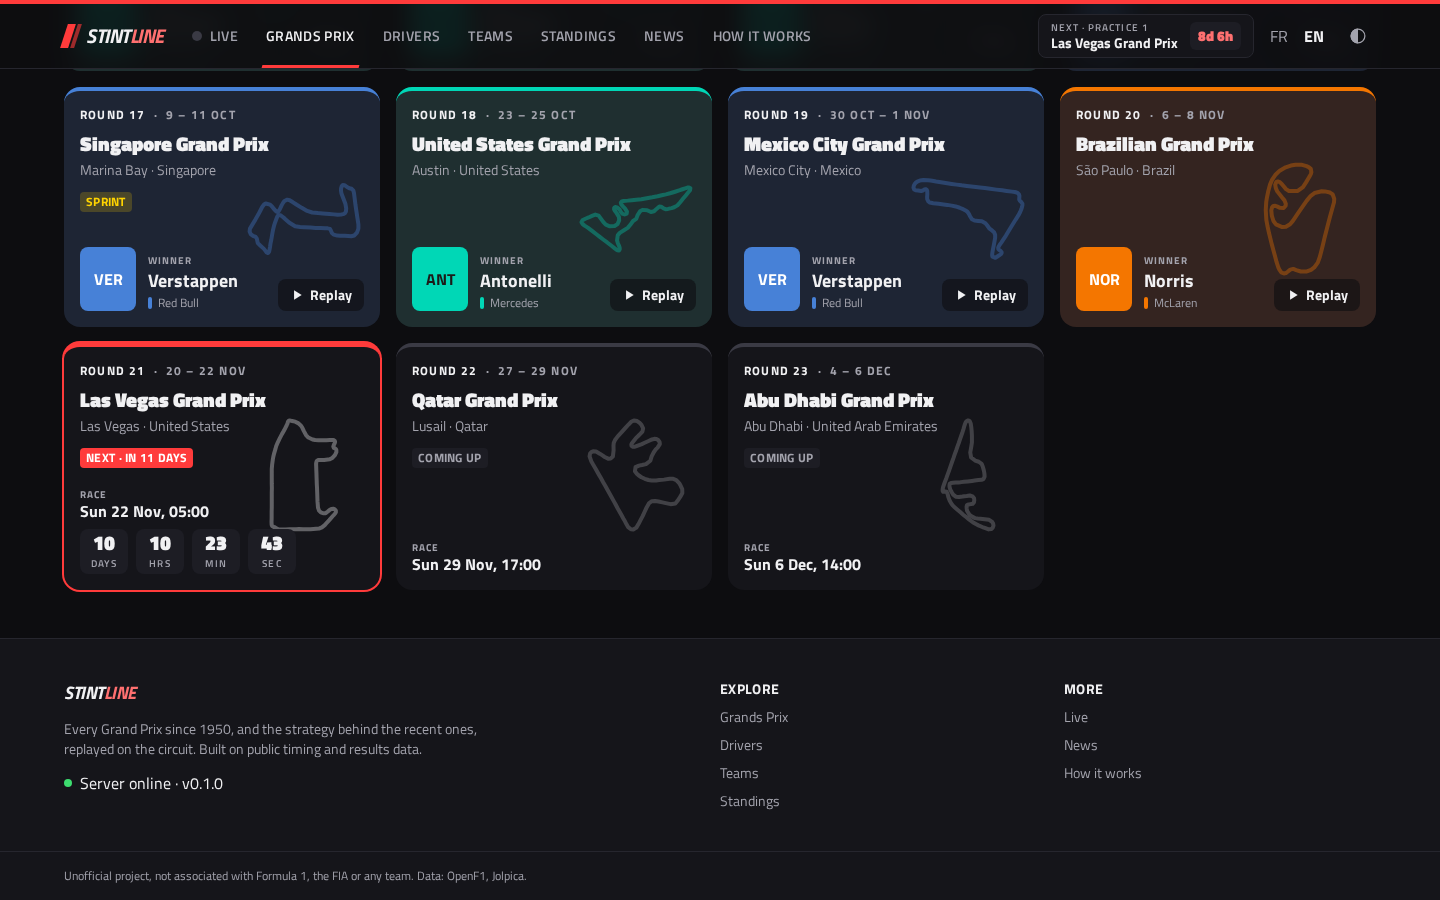
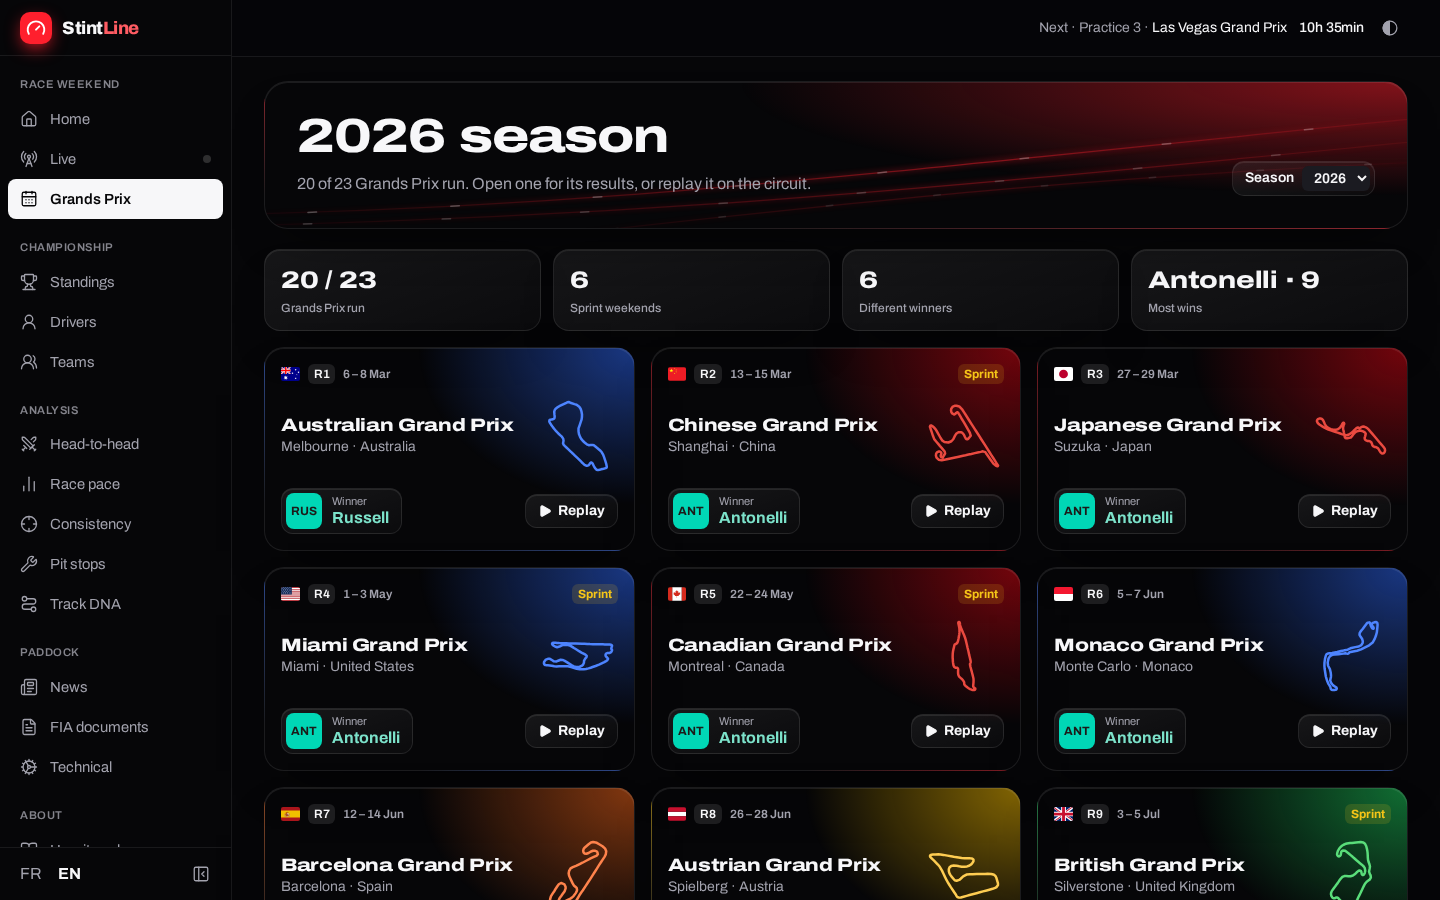
docs: record the polish, new screenshots and measured quality

diff --git a/apps/web/CLAUDE.md b/apps/web/CLAUDE.md
@@ -4,8 +4,8 @@ Read the root `CLAUDE.md` first. This file only adds frontend-specific rules.
 
 ## Layout
 - `src/app/`: router, layout shell (icon sidebar grouped by intent with FR/EN, top bar with the next session and the theme; on race pages the race picker and the Circuit / Tyres / Results tabs sit in the top bar), providers.
-- `src/features/<feature>/`: `components/`, `api.ts` (TanStack Query hooks), pure helpers, `*.test.ts(x)`. Features: `race` (circuit map, replay clock and maths, photo driver picker, pit-stop, undercut and what-if strategy panels; plans encoded in `strategy.ts`), `tyres` (wear per compound, strategies, wear chart), `model-about`, `session-picker` (race picker dialog over the timed seasons), `home` (home page, not found), `hub` (shared query hooks and current season), `calendar`, `event` (Grand Prix hero, results), `analysis` (race facts, lap charts, sectors; pure maths in `laps.ts`), `drivers`, `teams`, `standings` (tables and title-fight chart), `health`, `live` (status query, WebSocket hook with reconnection, TV-delay buffer in `buffer.ts`, live page with `TimingTower` (mini-sectors), `FlagTimeline`, `GapRing` (ring maths in `ring.ts`), `PitLanePanel` (team averages in `pitLane.ts`) and `WeatherStrip`), `forecast` (Open-Meteo forecasts: `useForecasts`, `ForecastBadge`, `WeekendForecast` panel, `ForecastCredit`, WMO codes in `weather.ts`), `news` (report and headline queries, `write.ts` turns report facts into an EN/FR article in sections, news page with a headline wire, source filters and a reader that names the drivers and teams of a headline, report pages with charts reused from `analysis` and `telemetry`), `insights` (analysis hub, ADR 0017: head-to-head, race pace, consistency, pit stops and track DNA pages; visx charts in `charts/` (split bar, gap strip, per-round gap bars, pace boxes, lap scatter, pit-loss bars), pure helpers in `duel.ts`, season and driver label helpers in `season.ts`, the "our engine" badge in `components/common.tsx`), `paddock` (FIA documents page: Grand Prix picker, category filter, search with snippets, `PdfViewer` drawing pages with pdf.js loaded on demand and retrying on 429, the ruling with its lap; `DecisionTable` and `PenaltyTags` reused by the Grand Prix page and the driver profile), `technical` (Upgrades heatmap with the parts on an original `CarDiagram` and the pace before/after, power-unit matrix against the allowance, incidents by kind and session and licence points), `championship` (title maths, ADR 0022: `useTitle`, `titleSummary` in `summary.ts`, `TitleFight` panel on the standings and `TitleSentence` on the home leader tile), `telemetry` (fastest-lap comparison: stacked distance charts with a shared pointer and a relief strip, lap drawn on the circuit, braking-zone table; "3D lap" view (ADR 0021): `webgl.ts` check before loading, `Lap3DPanel` controls and readout, `Lap3DScene` and `Car3D` the only modules importing `three` (lazy, excluded from coverage), track geometry and side-by-side spacing in `track3d.ts`, car shapes in `carShape.ts`, replay clock and gaps in `playback.ts`).
-- Routes (English at the root, French under `/fr` with the same paths, ADR 0025): `/` (home), `/calendar/:year?`, `/events/:eventId` (`?session=R|SPRINT|Q&chart=positions|gaps|pace|tyres|sectors|telemetry&drivers=4,81&tele=4,81&lap=3d`), `/drivers` (`?q=&season=`), `/drivers/:ref` (`?season=`), `/teams`, `/teams/:ref`, `/standings/:year?` (`?table=constructors&round=`), `/sessions/:sessionId` (circuit and simulators; `?car=&lap=&mode=stop|undercut|strategy&plan=M-31H`), `/sessions/:sessionId/tyres`, `/model`, `/live` (`?car=`), `/news` (`?lang=all`), `/news/:sessionId`, `/analysis` (`?season=&mode=drivers&a=norris&b=piastri`), `/analysis/pace` (`?season=&session=&fuel=raw&pit=1&sc=1&cutoff=105&drivers=4,81`), `/analysis/consistency` and `/analysis/pit-stops` (`?season=`), `/circuits` (`?sort=pitLoss`), `/circuits/:ref`, `/documents` (`?season=&event=&cat=decision&q=&doc=`), `/technical` (`?season=&tab=power-units|incidents&team=&round=`).
+- `src/features/<feature>/`: `components/`, `api.ts` (TanStack Query hooks), pure helpers, `*.test.ts(x)`. Features: `race` (circuit map, replay clock and maths, photo driver picker, pit-stop, undercut and what-if strategy panels; plans encoded in `strategy.ts`), `tyres` (wear per compound, strategies, wear chart), `model-about`, `about` (About and credits page), `session-picker` (race picker dialog over the timed seasons), `home` (home page, not found), `hub` (shared query hooks and current season), `calendar`, `event` (Grand Prix hero, results), `analysis` (race facts, lap charts, sectors; pure maths in `laps.ts`), `drivers`, `teams`, `standings` (tables and title-fight chart), `health`, `live` (status query, WebSocket hook with reconnection, TV-delay buffer in `buffer.ts`, live page with `TimingTower` (mini-sectors), `FlagTimeline`, `GapRing` (ring maths in `ring.ts`), `PitLanePanel` (team averages in `pitLane.ts`) and `WeatherStrip`), `forecast` (Open-Meteo forecasts: `useForecasts`, `ForecastBadge`, `WeekendForecast` panel, `ForecastCredit`, WMO codes in `weather.ts`), `news` (report and headline queries, `write.ts` turns report facts into an EN/FR article in sections, news page with a headline wire, source filters and a reader that names the drivers and teams of a headline, report pages with charts reused from `analysis` and `telemetry`), `insights` (analysis hub, ADR 0017: head-to-head, race pace, consistency, pit stops and track DNA pages; visx charts in `charts/` (split bar, gap strip, per-round gap bars, pace boxes, lap scatter, pit-loss bars), pure helpers in `duel.ts`, season and driver label helpers in `season.ts`, the "our engine" badge in `components/common.tsx`), `paddock` (FIA documents page: Grand Prix picker, category filter, search with snippets, `PdfViewer` drawing pages with pdf.js loaded on demand and retrying on 429, the ruling with its lap; `DecisionTable` and `PenaltyTags` reused by the Grand Prix page and the driver profile), `technical` (Upgrades heatmap with the parts on an original `CarDiagram` and the pace before/after, power-unit matrix against the allowance, incidents by kind and session and licence points), `championship` (title maths, ADR 0022: `useTitle`, `titleSummary` in `summary.ts`, `TitleFight` panel on the standings and `TitleSentence` on the home leader tile), `telemetry` (fastest-lap comparison: stacked distance charts with a shared pointer and a relief strip, lap drawn on the circuit, braking-zone table; "3D lap" view (ADR 0021): `webgl.ts` check before loading, `Lap3DPanel` controls and readout, `Lap3DScene` and `Car3D` the only modules importing `three` (lazy, excluded from coverage), track geometry and side-by-side spacing in `track3d.ts`, car shapes in `carShape.ts`, replay clock and gaps in `playback.ts`).
+- Routes (English at the root, French under `/fr` with the same paths, ADR 0025): `/` (home), `/calendar/:year?`, `/events/:eventId` (`?session=R|SPRINT|Q&chart=positions|gaps|pace|tyres|sectors|telemetry&drivers=4,81&tele=4,81&lap=3d`), `/drivers` (`?q=&season=`), `/drivers/:ref` (`?season=`), `/teams`, `/teams/:ref`, `/standings/:year?` (`?table=constructors&round=`), `/sessions/:sessionId` (circuit and simulators; `?car=&lap=&mode=stop|undercut|strategy&plan=M-31H`), `/sessions/:sessionId/tyres`, `/model`, `/live` (`?car=`), `/news` (`?lang=all`), `/news/:sessionId`, `/analysis` (`?season=&mode=drivers&a=norris&b=piastri`), `/analysis/pace` (`?season=&session=&fuel=raw&pit=1&sc=1&cutoff=105&drivers=4,81`), `/analysis/consistency` and `/analysis/pit-stops` (`?season=`), `/circuits` (`?sort=pitLoss`), `/circuits/:ref`, `/documents` (`?season=&event=&cat=decision&q=&doc=`), `/technical` (`?season=&tab=power-units|incidents&team=&round=`), `/about`. A new route also needs a line in `apps/api/stintline/seo/pages.py` and `document.py` (ADR 0025).
 - `src/components/ui/`: accessible primitives (Button, Select, Slider, SegmentedControl, Dialog on the native `<dialog>`, Skeleton, ErrorState, EmptyState).
 - `src/components/racing/`: `CompoundBadge`, `DriverAvatar` (official or Wikipedia photo, else number, code or initials in the team colour).
 - `src/components/hub/`: `PageHeader`, `KeyFigures` (a row of label/value pairs), `DriverName` and `TeamName` (linked, with photo or colour bar), `SeasonSelect`, `SeasonBars` (points per season), `ShowAll` + `useCollapsed` for long tables.

diff --git a/README.md b/README.md
@@ -4,7 +4,7 @@
 
 StintLine is a hub for Formula 1 fans built on public timing and results data. Replay a race lap by lap with the real cars on the real track. Ask "what if he had pitted now?", test an undercut, or run the whole race again with another tyre strategy. Then dig into lap charts, gaps, sectors and fastest-lap telemetry. Casual fans get plain answers first. The detailed charts are one click further.
 
-![Home page: the last Grand Prix with its podium, the next one with a countdown, both championships](docs/screenshots/home.png)
+![Home page: the next Grand Prix with its countdown, circuit figures and weekend schedule](docs/screenshots/home.png)
 
 ## What you can do
 
@@ -18,17 +18,20 @@ StintLine is a hub for Formula 1 fans built on public timing and results data. R
 | **Telemetry** | Compare fastest laps: speed, throttle, brake, gear and the gap along the lap, drawn on the circuit with braking zones. Drag across the charts (or pick a corner) to zoom on any part of the lap and compare the drivers there. |
 | **Every Grand Prix since 1950** | Results, qualifying, grids, driver and team careers, championship tables with the title-fight chart. |
 | **News** | Race reports written from the data (in English and French) and headline links to public sources. |
+| **Share what you find** | Every chart copies its link (filters, drivers and zoom included), saves as a picture or downloads its data as CSV. Racing words are explained on hover or tap. |
 | **Live mode (local)** | Follows the official timing feed from your own computer: running order, cars on the circuit, team radio, race control, TV delay. |
 
-The interface is bilingual (English and French), works on phones, and has a light and a dark theme.
+The interface is bilingual, with its own address per language (`/fr/...` for French), works on phones, and has a light and a dark theme. Each page is served with its own title, description, link preview and structured data, and a sitemap lists them all (ADR 0025). No cookies and no tracker; the About page credits every data source and picture.
+
+Measured with Lighthouse (mobile, production build behind nginx): accessibility, best practices and SEO 100 on every audited page, layout shift ≈ 0; performance 75–89, limited by the time a mid-range phone takes to run the app's JavaScript.
 
 ![Replaying the 2026 Brazilian Grand Prix with the strategy simulator open](docs/screenshots/circuit-strategy.png)
 
-![Grands Prix of the season drawn around their circuit, with the winner and a replay button](docs/screenshots/grands-prix.png)
+![The 2026 season: Grands Prix drawn around their circuit, with the winner and a replay button](docs/screenshots/grands-prix.png)
 
-![Telemetry zoomed on one corner: speed, throttle, brake, gear and gap, the circuit framed on that section](docs/screenshots/telemetry.png)
+![Telemetry of Norris and Antonelli zoomed on turns 1 and 2: speed, throttle, brake, gear and gap, the section drawn on the circuit](docs/screenshots/telemetry.png)
 
-Screenshots are taken with third-party images blocked, so drivers appear as their coloured initials. The site shows their official portraits.
+Screenshots are taken with official media blocked, so current drivers appear as their coloured initials. The site shows their official portraits.
 
 ## Quick start
 

diff --git a/docs/design.md b/docs/design.md
@@ -5,7 +5,8 @@ by team and circuit colours, light trails, and real figures everywhere.
 
 ## Frame
 - Sidebar with icons (`lucide-react`), grouped: race weekend, championship, analysis,
-  paddock, about. The active link is a solid ink pill. Phones get a top bar and a drawer.
+  paddock, about. The active link is a solid ink pill. On desktop it folds into a rail of
+  icons (`[` key, remembered). Phones get a top bar and a drawer.
 - Frosted sticky top bar: next session with the time left, theme.
 - Content up to 1840 px wide, 16 px gutter on phones.
 
@@ -22,7 +23,9 @@ by team and circuit colours, light trails, and real figures everywhere.
 | `pillPrimary` / `pillGlass` | Main action (ink on ground) and secondary action (frosted). |
 | `Panel`, `Tile`, `KeyFigures` | Sections with a title, key figures, rows of small figures (ADR 0016, restyled). |
 | `Bust` | A driver from head to chest, cropped from the full-length official portrait (sharper copy via `lib/portrait.ts`), faded at the bottom. Use it whenever a driver must fill a card. |
-| `components/charts/` | `useZoom`, `ZoomLayer`, `ChartTools`, `ChartTooltip`, `ClipArea`: every chart zooms into a dragged box, reads values under the pointer and has +, − and reset buttons. |
+| `components/charts/` | `useZoom`, `ZoomLayer`, `ChartTools`, `ChartTooltip`, `ClipArea`: every chart zooms into a dragged box, reads values under the pointer and has +, − and reset buttons; `ChartTools` also copies the chart's link, saves a PNG and downloads its data as CSV. |
+| `Term` / `TermList` | A racing or statistics word explained on hover, focus or tap (one glossary in `lib/i18n/glossary.ts`); `PageHeader terms` lists the page's words under its intro. |
+| `Skeleton`, `SkeletonTiles` | Loading placeholders of the final block's height, so nothing below jumps when data arrives. |
 | `Face`, `Move`, `RoundBars`, `Flag` | Driver photo or code, places gained or lost, one bar per race, flags. |
 
 ## Type and colour
@@ -45,7 +48,14 @@ by team and circuit colours, light trails, and real figures everywhere.
 - Photos and cars never overlap text or each other awkwardly (a car stands beside a driver).
 - No empty column; facts are tagged cards with a colour bar; no engine badges.
 - Public pages never show commands or setup text.
+- Nothing moves once shown: a block that loads after the page holds its space with a placeholder of
+  its height, filters that fill in late are drawn (disabled) from the start, and `PageHeader`
+  keeps its text at least 30rem wide so late filters wrap below it. Check with a layout-shift
+  trace (Playwright `PerformanceObserver`, or Lighthouse CLS ≈ 0).
+- The page's main picture (LCP) is fetched first: `priority` on `Face` or `Bust`.
 
 ## Checking a page
 Run a dev server against real data (`VITE_API_PROXY_TARGET=http://localhost:8000` or the demo
-stack on 8080) and screenshot every page at 1600 px and 390 px, in dark and light.
+stack on 8080) and screenshot every page at 1600 px and 390 px, in dark and light. For speed
+and heads, measure the demo stack (`make demo-up`): it is the only setup with nginx (gzip) and
+the pages rendered by the API.

diff --git a/CLAUDE.md b/CLAUDE.md
@@ -21,6 +21,7 @@ It must stay accessible to casual fans first, with deeper charts for hardcore fa
 - Phase 17 done: weekend and live (ADR 0020). Open-Meteo forecasts per session (`racedata.providers.openmeteo`, `stintline.forecast`, beat every 3 h, `refresh_forecasts`, `GET /forecasts`) on the calendar cards, the home countdown, the Grand Prix page and the offline live page. Live page: timing tower with coloured mini-sectors, sector times and places won, race timeline of flag periods (`SessionData`), gap ring with the rejoin window, pit-lane times with averages, weather strip, race control tagged by lap and flag. `live_demo` replays all of it from a stored race.
 - Phase 18 done: lap altitude and 3D replay (ADR 0021). OpenF1 `z` kept with each fastest lap's positions (`add_altitude`, `ingest_telemetry --altitude`, 4 races per `refresh_recent`), engine `elevation`, `plane_scale` and gap in metres, compare endpoint with `t_s`, `gap_m`, `elevation_m`; relief strip under the telemetry charts and a "3D lap" view (`three` + `@react-three/fiber`, lazy, WebGL check with a map fallback): original car per driver, chase / above / trackside cameras, speeds, slider, synced with the 2D charts and the zoom.
 - Phase 19 in progress (ideas of our own, validated 2026-11-19 in this order: title maths, driver form, undercut atlas, strategy preview, season review, eras comparison). Title maths done (ADR 0022): points rules per season since 1950 (`stintline.championship`), who can still win, the leader's clinch margin, the round each title was settled at (countback included), `GET /seasons/{year}/title`, "Title maths" panel on the standings and the leader tile.
+- Polish before the public demo done (2026-11-20, branch `polish/frontend`): scroll and focus on page changes, collapsible rail, honest result statuses and French labels, a glossary of racing words, every computed figure shown, charts shared as link / PNG / CSV, performance (one font, one dictionary, chunks, no layout shift), Wikipedia portraits relayed (ADR 0024), page heads, `/fr` addresses, sitemap and real 404s (ADR 0025), nginx gzip and security headers, About and credits page.
 - Design: night-race glass design for the whole site (ADR 0023, `docs/design.md`, validated 2026-11-19): frosted cards lit by team and circuit colours, light trails, hollow watermark numbers, a lapping track map, Archivo expanded for titles and condensed for timing figures, light scroll motion; no engine badges on public pages.
 - Roadmap (validated 2026-11-03): Phase 7 hub (home page, calendar and archive, driver and team profiles, photo driver picker, detailed analysis pages), Phase 8 what-if strategy replay, Phase 9 live mode with team radio, Phase 10 news, Phase 11 polish and README. Each phase gets its own plan for validation. Directories marked *(planned)* below do not exist yet.
 
